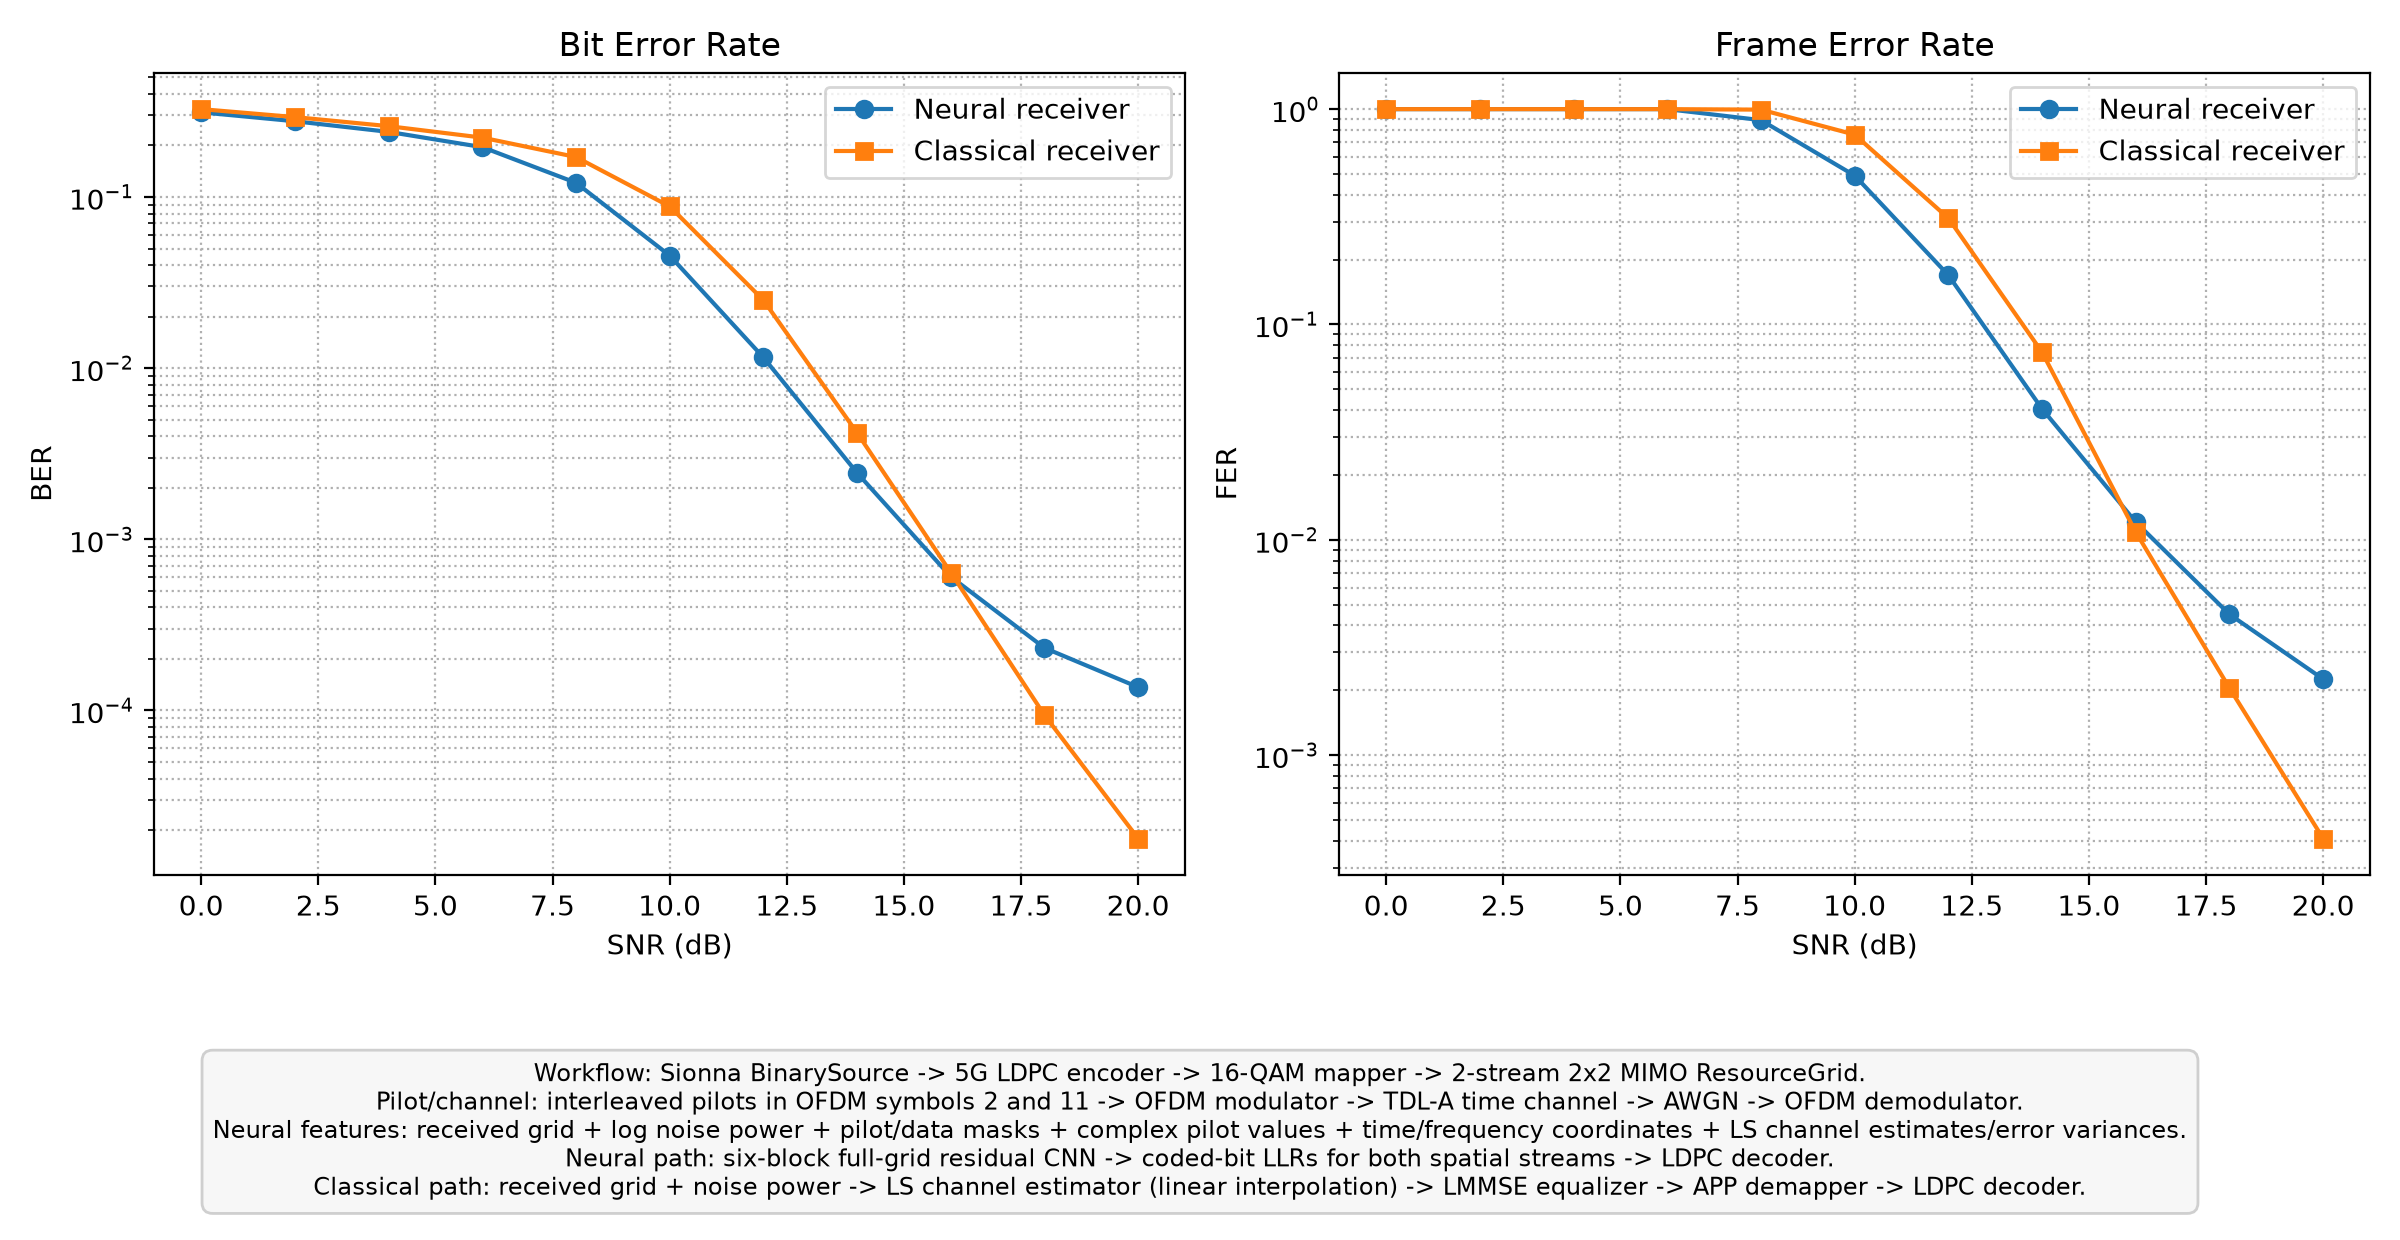
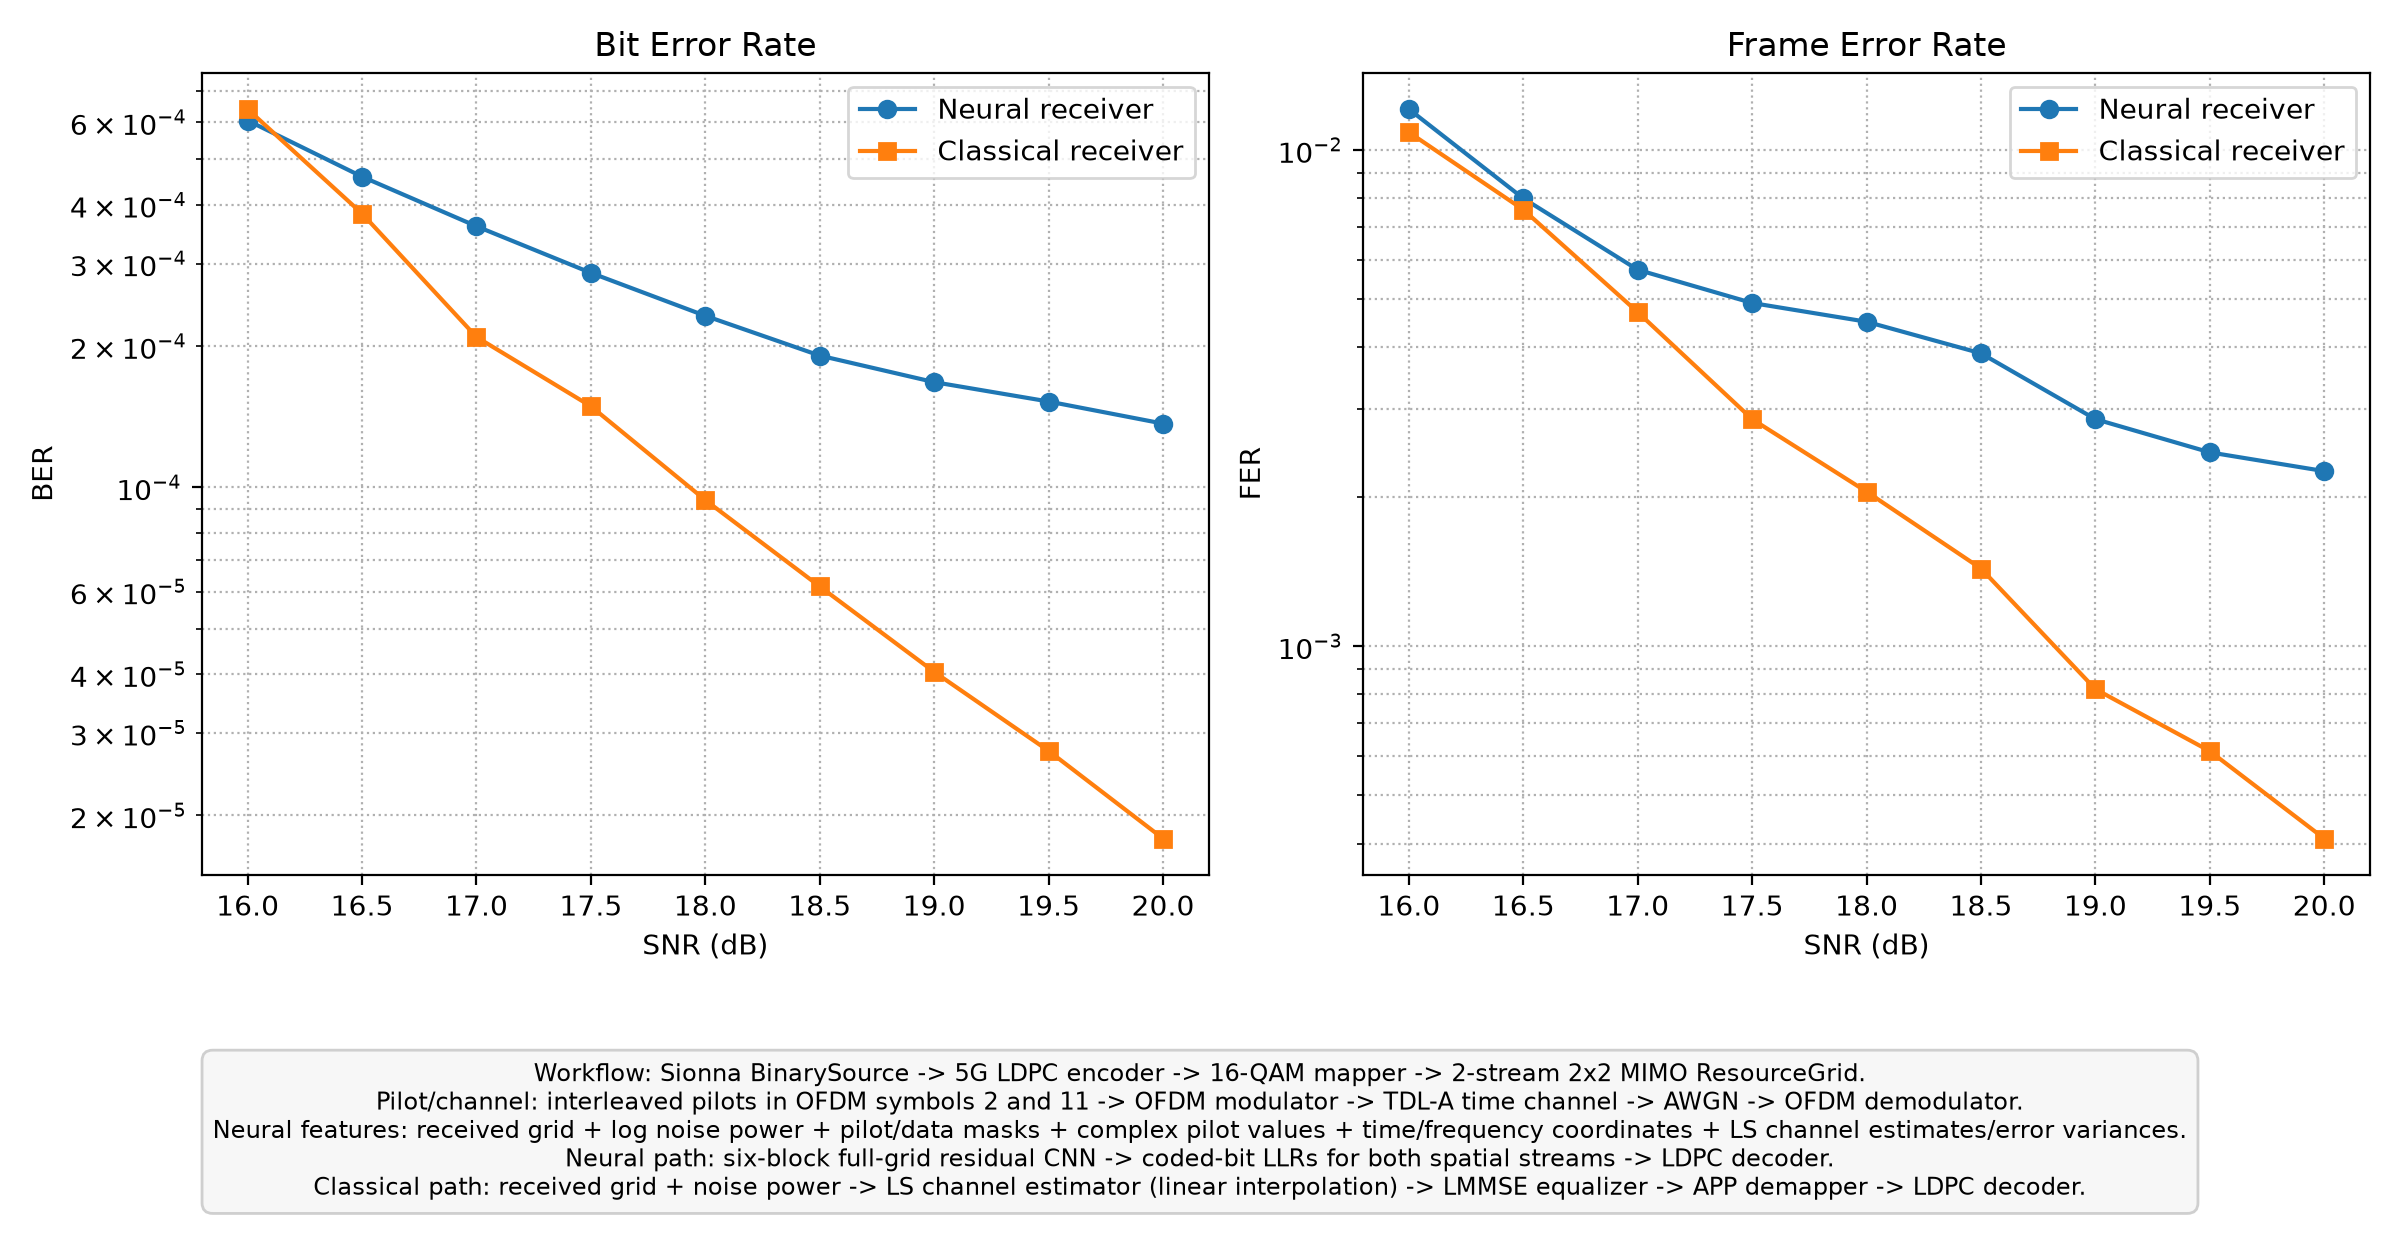
feat: enable model training and refine SNR simulation range to [16.0, 20.0] dB

diff --git a/main_OFDM.py b/main_OFDM.py
@@ -25,7 +25,7 @@ training_seed = 0
 evaluation_seeds = [1000, 1001, 1002]
 
 config.seed = training_seed
-should_train_model = False
+should_train_model = True
 checkpoint_path = "checkpoints/full_grid_receiver.pt"
 
 def build_comb_scattered_pilot_pattern(num_ofdm_symbols, num_subcarriers, num_tx, num_streams_per_tx, device):
@@ -245,7 +245,8 @@ def main():
         "num_streams_per_tx": 2,
         "num_rx_ant": 2,
         "num_tx_ant": 2,
-        "snr_dbs": [0, 2, 4, 6, 8, 10, 12, 14, 16, 18, 20],
+        #"snr_dbs": [0, 2, 4, 6, 8, 10, 12, 14, 16, 18, 20],
+        "snr_dbs": [16.0, 16.5, 17.0, 17.5, 18.0, 18.5, 19.0, 19.5, 20.0]
     }
 
     target_coded_bits = sim_config["target_coded_bits"]
